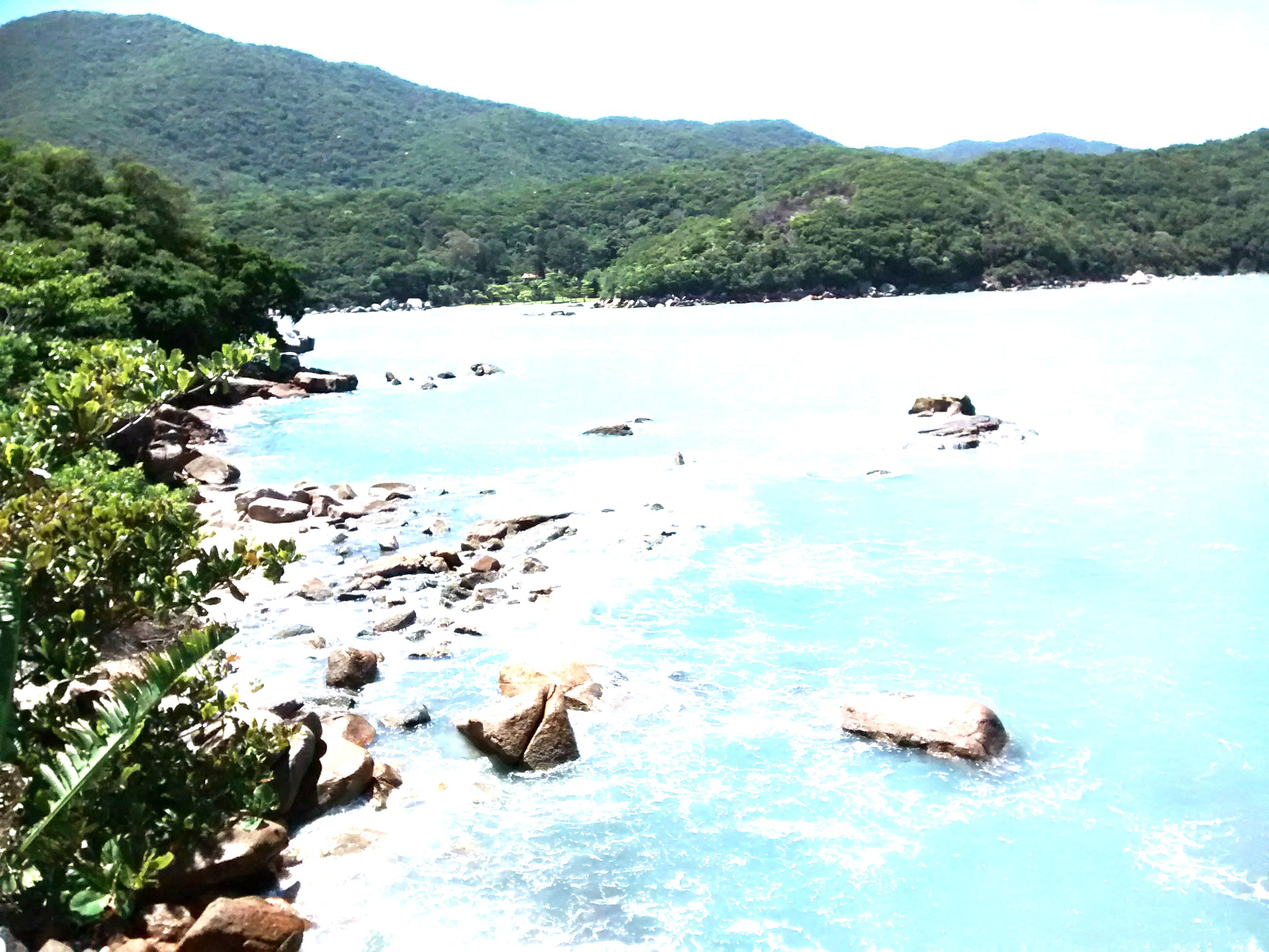
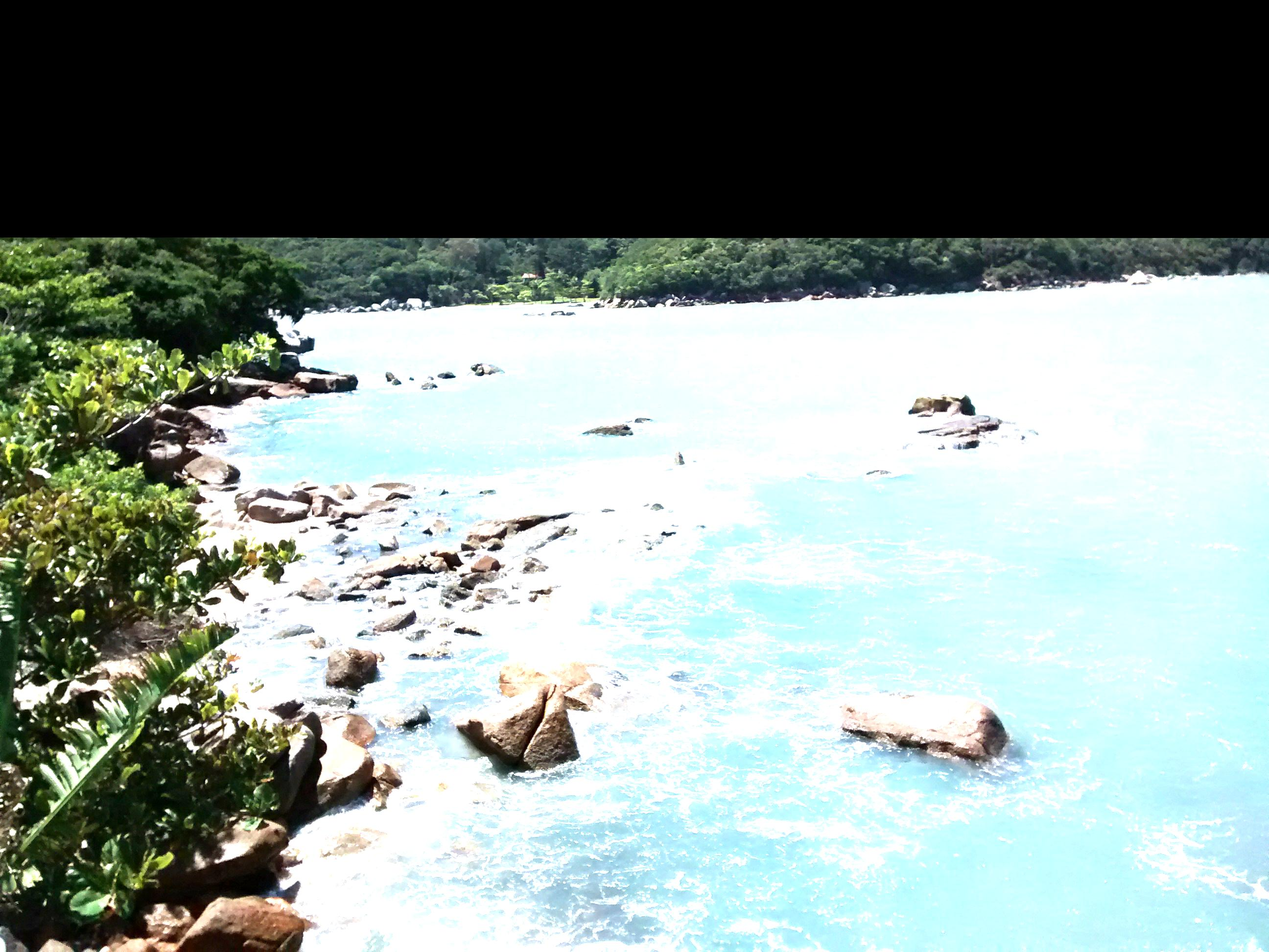
Função brilhoProcesso quase funcionando

Changed region(s): [[0.0, 0.0, 1.0, 0.2778]]

diff --git a/src/lib_imageprocessing.c b/src/lib_imageprocessing.c
@@ -9,12 +9,8 @@
 #include <sys/wait.h>
 #include <time.h>
 #include <pthread.h>
-
-/*
-imagem abrir_imagem(char *nome_do_arquivo);
-void salvar_imagem(char *nome_do_arquivo);
-void liberar_imagem(imagem *i);
- */
+#include <sys/time.h>
+#include <math.h>
 
 imagem abrir_imagem(char *nome_do_arquivo) {
   FIBITMAP *bitmapIn;
@@ -83,40 +79,6 @@ void salvar_imagem(char *nome_do_arquivo, imagem *I) {
   FreeImage_Save(FIF_JPEG, bitmapOut, nome_do_arquivo, JPEG_DEFAULT);
 }
 
-void brilho_imagem (imagem *I, float fator) {
-
-	int i, j, idx;
-	float r, g, b;
-	
-	for (i=0; i<I->width; i++) {
-		for (j=0; j<I->height; j++){
-			idx = i + (j*I->width);
-			r = I->r[idx] * fator;
-			g = I->g[idx] * fator;
-			b = I->b[idx] * fator;			
-			if  (r > 255){
-				I->r[idx] = 255;				
-			}
-			else {
-				I->r[idx] = r;
-			}
-			if (g > 255){
-				I->g[idx] =  255;
-			}
-			else {
-				I->g[idx] = g;
-			}
-			if (b > 255){
-				I->b[idx] = 255;
-			}
-			else {
-				I->b[idx] = b;
-			}		
-						
-		}
-	}
-}
-
 void vmax_imagem (imagem *I, float vmax[3]){
 
 	int i, j, idx;
@@ -138,4 +100,96 @@ void vmax_imagem (imagem *I, float vmax[3]){
 			}			
 		}
 	}	
+}
+
+void multiplicaLinha (int i, imagem *I, float *r, float *g, float *b, float fator){
+  int x, idx;
+  float rPix, gPix, bPix;
+  for (x=0; x<I->width; x++){
+    idx = i*(I->height) + x;
+    rPix = I->r[idx]*fator;
+    gPix = I->g[idx]*fator;
+    bPix = I->b[idx]*fator;
+    if (rPix > 255){
+      r[idx] = 255;        
+    }
+    else {
+      r[idx] = rPix;
+    }
+    if (gPix > 255){
+      g[idx] = 255;
+    }
+    else {
+      g[idx] = gPix;
+    }
+    if (bPix > 255){
+      b[idx] = 255;
+    }
+    else {
+      b[idx] = bPix;
+    }
+  }
+}
+
+void atualizaImagem (imagem *I, float *r, float *g, float *b){
+
+  int x, y, idx;
+
+  for (y=0; y<I->height; y++){
+    for (x=0; x<I->width; x++){
+      idx = x + y*(I->width);
+      I->r[idx] = r[idx];
+      I->g[idx] = g[idx];
+      I->b[idx] = b[idx];
+    }
+  }
+}
+
+void brilhoProcesso (imagem *I, float fator){
+
+  int n; 
+  if ((I->height)%2 == 0){
+    n = (I->height)/2;
+  }
+  else {
+    n = ((I->height)/2)+1;
+  }
+  pid_t *pids = malloc(sizeof(pid_t)*n);
+  int i, j, status;
+  int protection = PROT_READ | PROT_WRITE;
+  int visibility = MAP_SHARED | MAP_ANON;
+  float *r = (float*) mmap(NULL, sizeof(float)*(I->height)*(I->width), protection, visibility, 0, 0);
+  float *g = (float*) mmap(NULL, sizeof(float)*(I->height)*(I->width), protection, visibility, 0, 0);
+  float *b = (float*) mmap(NULL, sizeof(float)*(I->height)*(I->width), protection, visibility, 0, 0);
+
+  for (i=0; i<n; i++){
+    pids[i] = fork();
+    if (pids[i] < 0){
+      printf ("Erro ao fazer fork\n");
+      exit (EXIT_FAILURE);
+    }
+    else if (pids[i] == 0){
+      if (2*i<I->height){
+        multiplicaLinha (2*i, I, r, g, b, fator);
+      }      
+      exit (EXIT_SUCCESS);
+    }
+    else {
+      if (((2*i)+1)<I->height){
+        multiplicaLinha ((2*i)+1, I, r, g, b, fator);
+      }           
+    }
+  }  
+
+  i=0;
+
+  while (i<n){
+    waitpid (pids[i], &status, 0);
+    i++;
+  }
+  atualizaImagem (I, r, g, b);
+}
+
+void brilho_imagem (imagem *I, float fator){
+  brilhoProcesso (I, fator);
 }

diff --git a/src/imageprocessing.h b/src/imageprocessing.h
@@ -11,7 +11,10 @@ typedef struct {
 imagem abrir_imagem(char *nome_do_arquivo);
 void salvar_imagem(char *nome_do_arquivo, imagem *I);
 void liberar_imagem(imagem *i);
-void brilho_imagem (imagem *I, float fator);
 void vmax_imagem (imagem *I, float vmax[3]);
+void brilhoProcesso (imagem *I, float fator);
+void multiplicaLinha (int i, imagem *I, float *r, float *g, float *b, float fator);
+void atualizaImagem (imagem *I, float *r, float *g, float *b);
+void brilho_imagem (imagem *I, float fator);
 
 #endif
